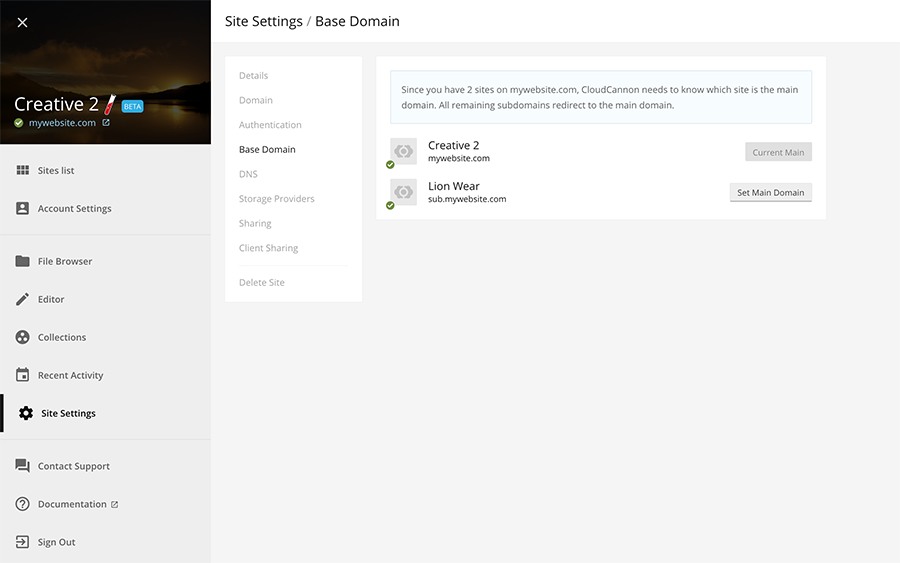
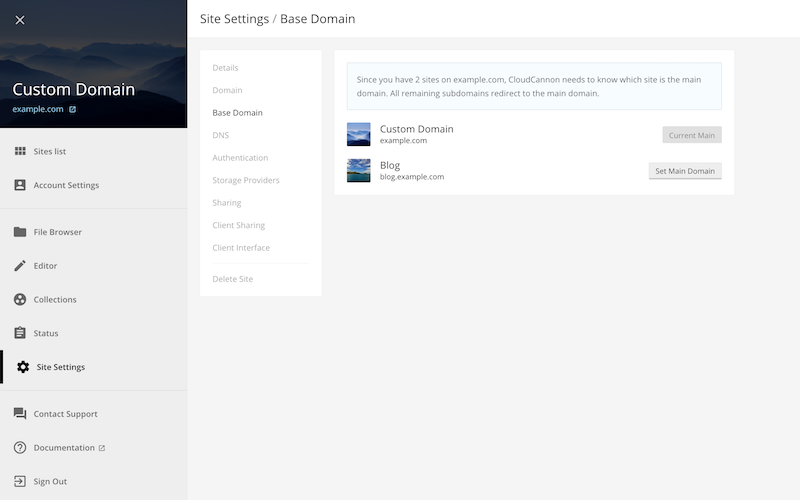
New change log, updated domains

diff --git a/_sass/_layout.scss b/_sass/_layout.scss
@@ -81,7 +81,7 @@ footer {
 }
 
 .page-header {
-	padding: 80px 0;
+	padding: 80px;
 	text-align: center;
 	background-color: $page-header-background;
 	text-transform: uppercase;

diff --git a/_domains/2-custom-domains.md b/_domains/2-custom-domains.md
@@ -1,8 +1,7 @@
 ---
 title: Custom Domains
 ---
-
-Using a custom domain requires you to purchase one from an external domain registrar. We recommend [iwantmyname](http://www.shareasale.com/r.cfm?B=210738&U=852853&M=25581&urllink=https://iwantmyname.com/services/developer/cloud-cannon-custom-domains).
+Only available for sites hosted by CloudCannon. Using a custom domain requires you to purchase one from an external domain registrar. We recommend [iwantmyname](http://www.shareasale.com/r.cfm?B=210738&U=852853&M=25581&urllink=https://iwantmyname.com/services/developer/cloud-cannon-custom-domains).
 {: .info}
 
 To add a custom domain:
@@ -12,7 +11,7 @@ To add a custom domain:
 
 ![Site settings domain tab with subdomain](/img/domains/empty.png){: .screenshot srcset="/img/domains/empty.png 800w, /img/domains/empty@2x.png 1600w"}
 
-[iwantmyname](http://www.shareasale.com/r.cfm?B=210738&U=852853&M=25581&urllink=https://iwantmyname.com/services/developer/cloud-cannon-custom-domains) domains have a one click install for which avoids the following steps.
+[iwantmyname](http://www.shareasale.com/r.cfm?B=210738&U=852853&M=25581&urllink=https://iwantmyname.com/services/developer/cloud-cannon-custom-domains) domains have a one click install to avoid the following steps.
 {: .info}
 
 ---
@@ -53,7 +52,7 @@ Here are some domain registrars' documentation:
 
 ### Using your own DNS
 
-If you are using the naked domain we recommend using CloudCannon DNS. This allows us to dynamically load balance your site across multiple servers.
+If you are using the apex domain (i.e. no subdomain) we recommend using CloudCannon DNS. This allows us to dynamically load balance your site across multiple servers.
 {: .warning}
 
 Go to the *Site Settings* / *Domain* section and ensure it looks like the following screenshot. Otherwise, click **I have my own DNS**.
@@ -68,5 +67,5 @@ Go to the *Site Settings* / *Domain* section and ensure it looks like the follow
 
 Here are some domain registrars' DNS documentation:
 
-* [Namecheap](https://www.namecheap.com/domains/freedns.aspx) (can be used with registrar)
+* [Namecheap](https://www.namecheap.com/domains/freedns.aspx) (can be used with any registrar)
 * [GoDaddy](https://www.godaddy.com/help/managing-dns-for-your-domain-names-680)

diff --git a/_domains/3-subdomains.md b/_domains/3-subdomains.md
@@ -1,0 +1,36 @@
+---
+title: Subdomains
+---
+Only available for sites hosted by CloudCannon
+{: .info}
+
+Adding a subdomain is the same as adding a [Custom Domain](/domains/custom-domains/). To add a subdomain:
+
+1. Go to the *Domain* tab in site settings
+2. Enter the domain including the subdomain
+
+![Site settings domain tab with subdomain](/img/domains/empty.png){: .screenshot srcset="/img/domains/empty.png 800w, /img/domains/empty@2x.png 1600w"}
+
+If your domain is **example.com**, adding **www.** to the front defines **www** as the subdomain.
+{: .info}
+
+---
+
+## Multiple Subdomains
+
+When there are multiple sites with subdomains on the same domain, a subdomain is delegated as the main domain. All unallocated subdomains redirect to the sites with the main domain. For example:
+
+* A site has **www.example.com** attached
+* Another site has **docs.example.com** attached
+* **www.example.com** is set as the main domain
+
+Visiting any subdomain other than **www.example.com** or **docs.example.com** will redirect to **www.example.com**.
+
+To set a site with a subdomain as the main domain:
+
+1. Create at least two sites with the same domain and different subdomains
+2. Navigate to the *Base Domain* tab in site settings
+3. Click **Set Main Domain** on a site to redirect all unused subdomains there
+
+![CloudCannon Base Domain interface](/img/domains/base-domains.png){: .screenshot srcset="/img/domains/base-domains.png 800w, /img/domains/base-domains@2x.png 1600w"}
+

diff --git a/_posts/2016-02-11-colour-picker.md b/_posts/2016-02-11-colour-picker.md
@@ -1,0 +1,22 @@
+---
+title: Colour Picker
+type: minor
+---
+
+This release adds a colour picker to the range of interfaces for Jekyll front matter and YAML.
+
+![CloudCannon front matter interface including new colour picker](/img/editing/front-matter/overview.png){: .screenshot srcset="/img/editing/front-matter/overview.png 800w, /img/editing/front-matter/overview@2x.png 1600w"}
+
+Features:
+
+* Check for changes call on Status page for Dropbox connected sites.
+* Colour picker added to [front matter interfaces](/editing/front-matter/).
+* Improved performance when syncing from storage provider webhooks.
+* Switch to Bitbucket webhooks from Bitbucket services (deprecated).
+* Branch connected shown on storager provider settings for GitHub and Bitbucket sites.
+
+Fixes:
+
+* Fixed error appearing the first time image button was activated in the content editor.
+* Fixed an issue where site icons were not displayed correctly on the base domain section.
+* Fixed an issue when HTML was escaped in Liquid `highlight` tags.

diff --git a/_domains/1-testing-domains.md b/_domains/1-testing-domains.md
@@ -2,11 +2,9 @@
 title: Testing Domains
 ---
 
-
-Every site on CloudCannon has a matching **.cloudvent.net** URL. Use this to test your live site at any stage.
+Every site on CloudCannon has a matching ***.cloudvent.net** URL. Use this to test your live site at any stage.
 
 Testing domains are generated with an adjective and a noun. For example: **red-lobster.cloudvent.net** or **fast-bean.cloudvent.net**.
-
 To stop serving content on this domain, add [Password Authentication](/authentication/password/) or [contact support](mailto:support@cloudcannon.com).
 
 ---
